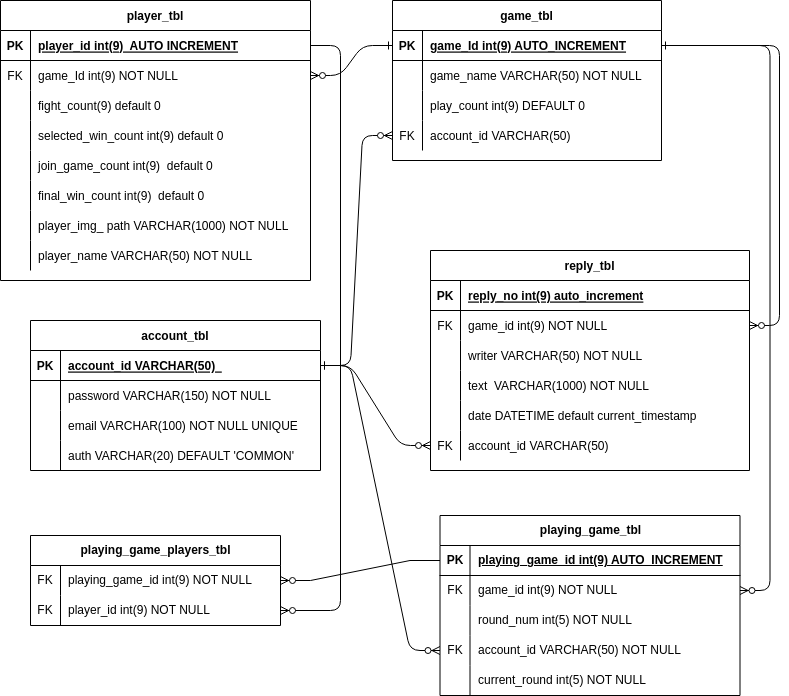
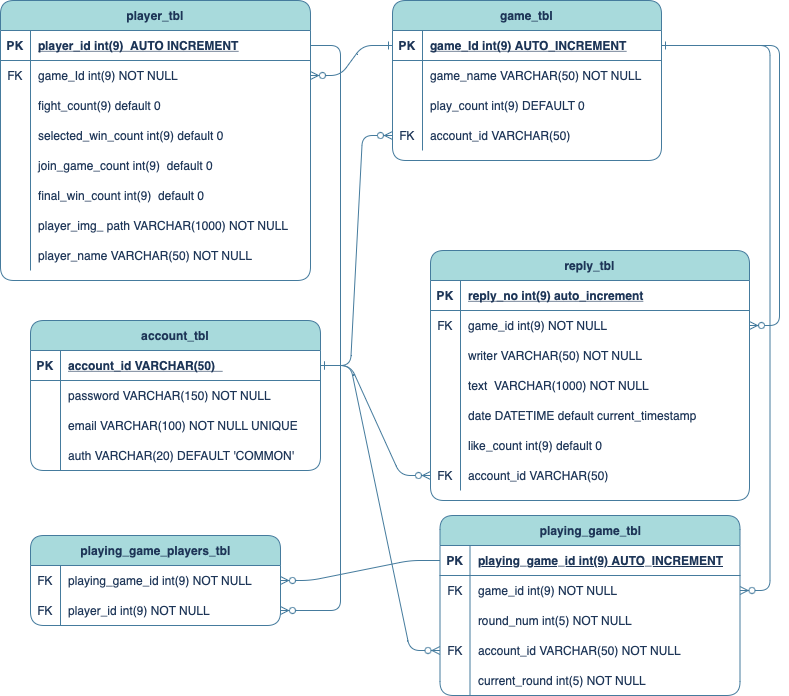
#5/14 18:16 readme, erd수정

diff --git a/src/main/java/com/pickpick/entity/Reply.java b/src/main/java/com/pickpick/entity/Reply.java
@@ -11,6 +11,7 @@ CREATE TABLE reply_tbl (
     writer VARCHAR(50) NOT NULL,
     text VARCHAR(1000) NOT NULL,
     date DATETIME DEFAULT CURRENT_TIMESTAMP,
+    like_count int(9) default 0,
     CONSTRAINT pk_reply_no PRIMARY KEY (reply_no),
     CONSTRAINT fk_game_id_reply FOREIGN KEY (game_id) REFERENCES game_tbl(game_id)
                        ON DELETE CASCADE

diff --git a/README.md b/README.md
@@ -7,4 +7,21 @@
 | 5/8 | 주제 회의 및 ERD 작성     |    |
 | 5/9 | ERD 수정 및 Entity 생성 | 백  |
 
+### Member
 
+---
+
+| 개발자 | 담당          |
+|-----|-------------|
+| 원석빈 | PM & Front  |
+| 이채원 | Front       | 
+| 이진호 | Front & Back|
+| 조경훈 | Back        |
+
+### DataBase Diagram
+
+![erd.png](diagram%2Ferd.png)
+
+### Flow Chart
+
+![flow-chart.png](diagram%2Fflow-chart.png)
